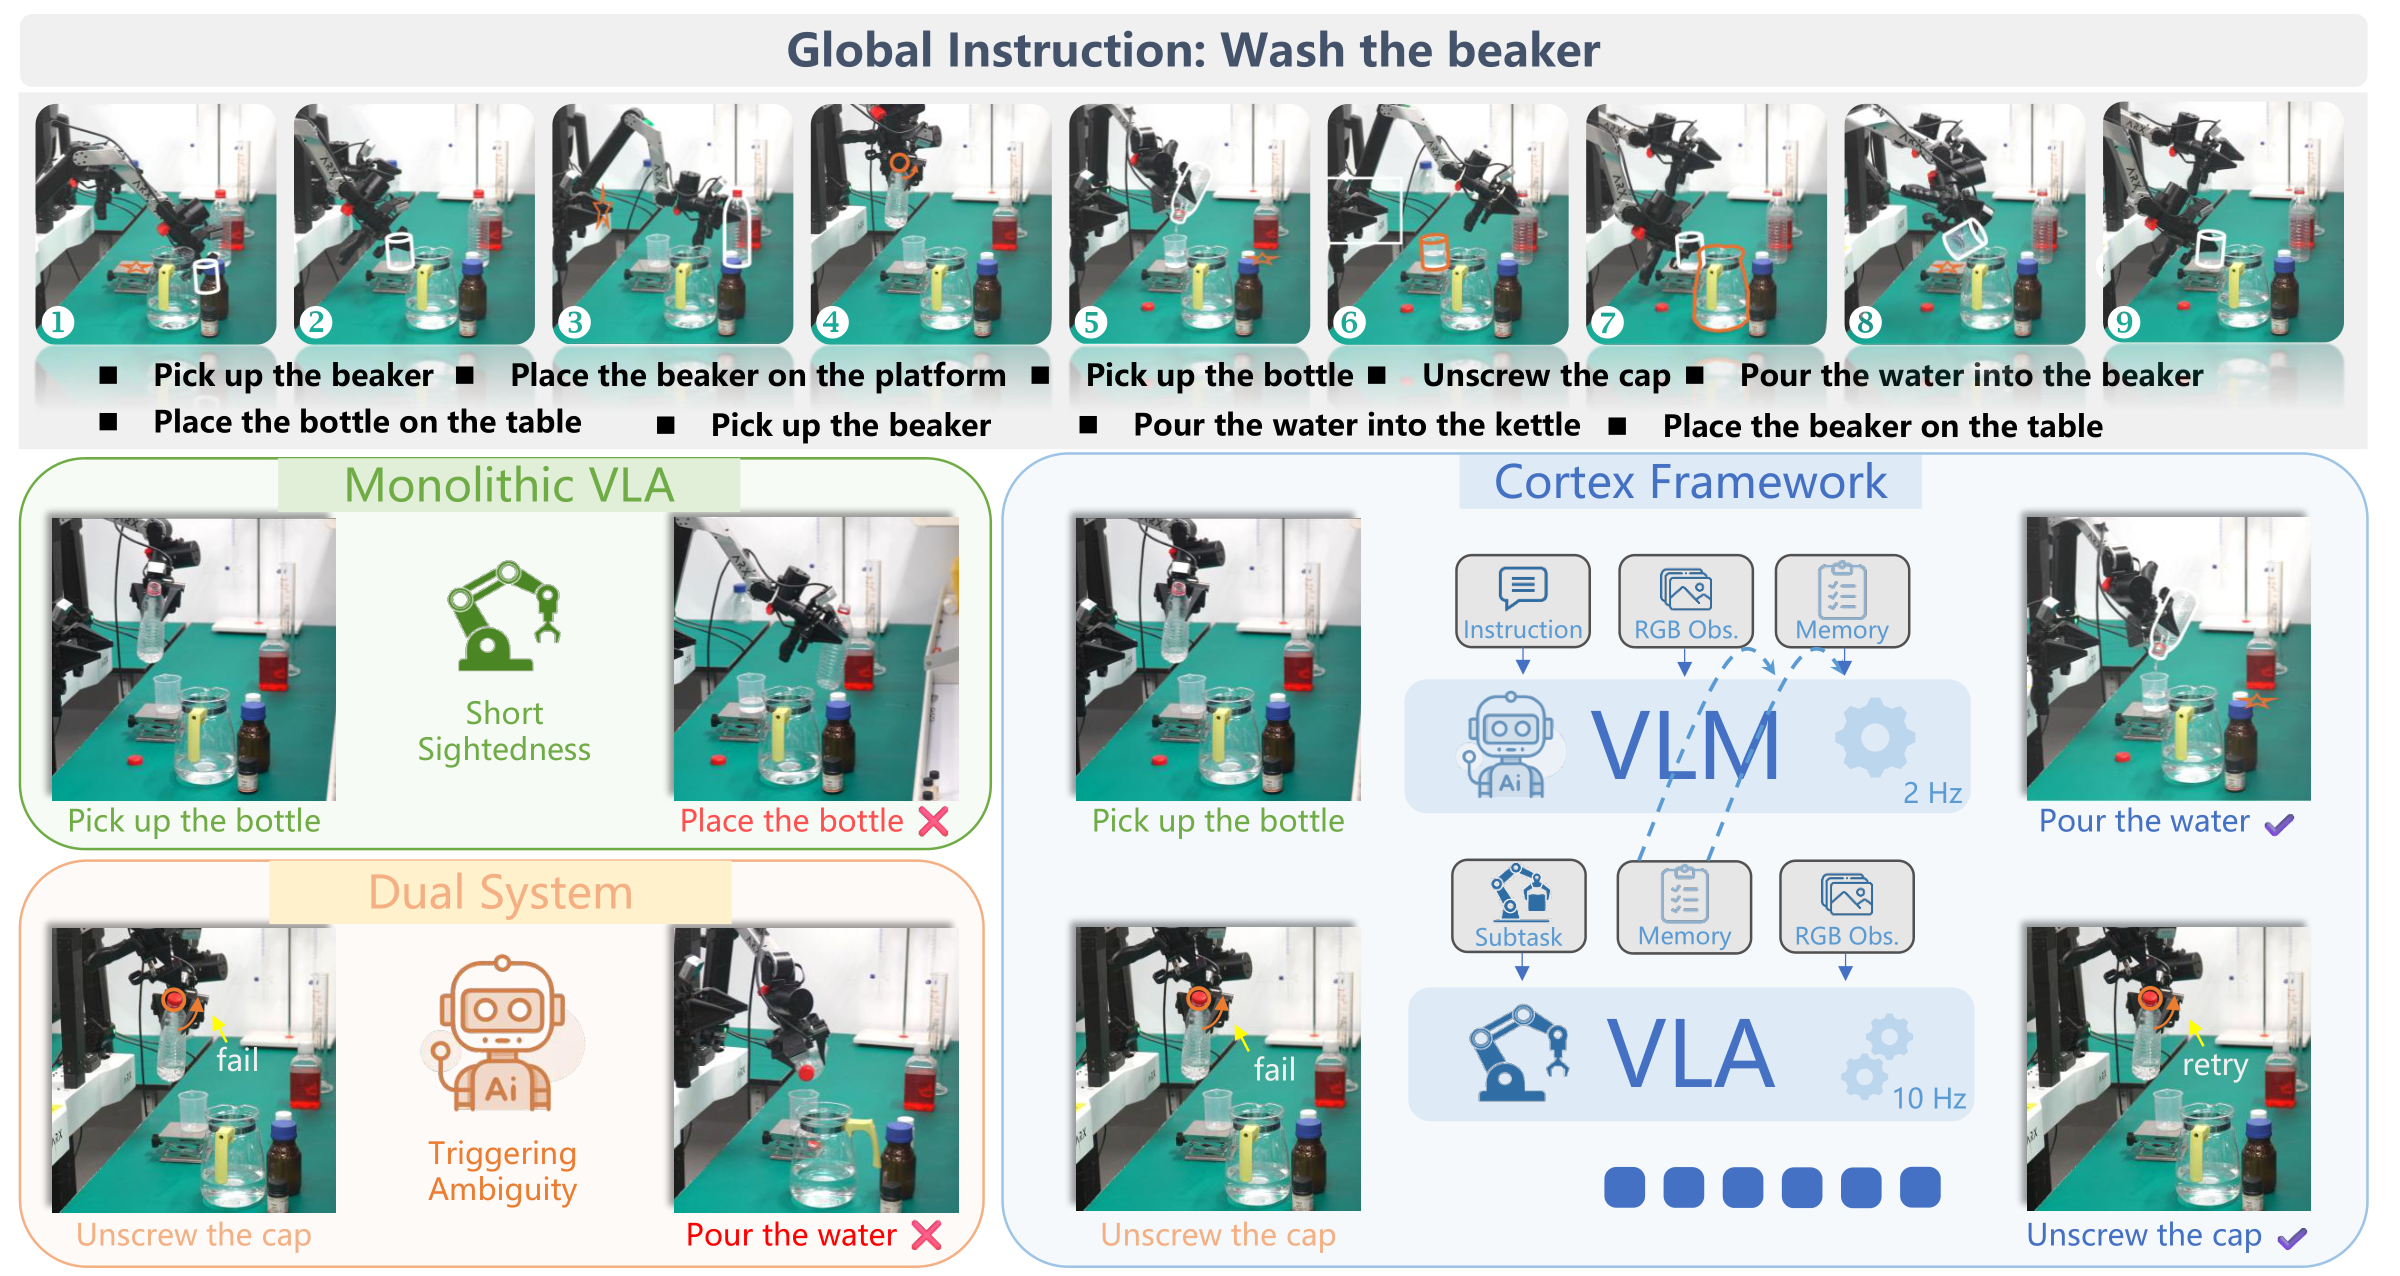
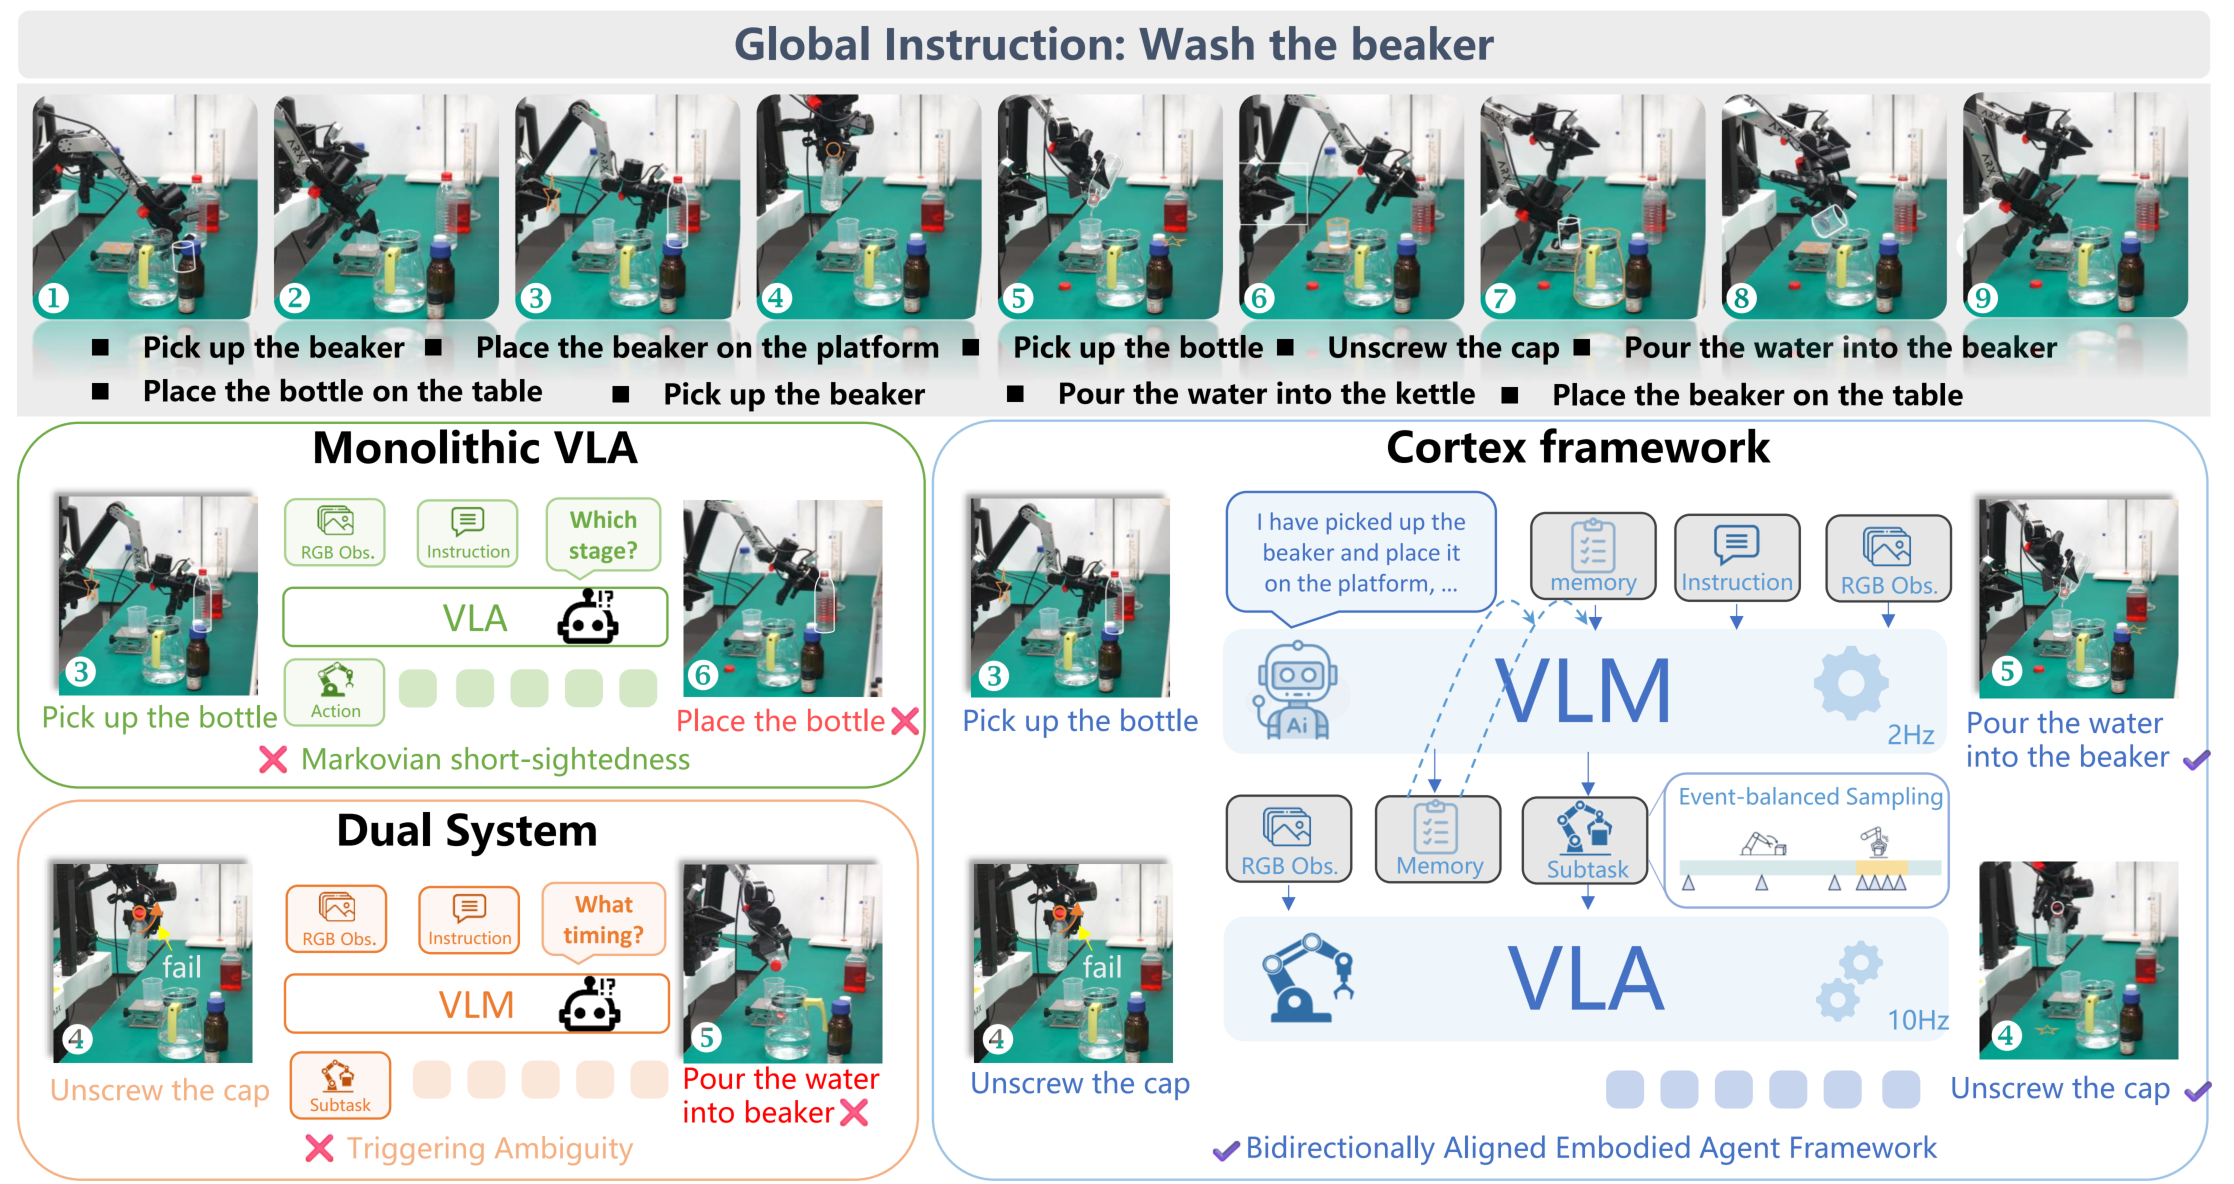
[feat] add reaworld video

diff --git a/static/css/style.css b/static/css/style.css
@@ -69,6 +69,7 @@ img,
 video {
   display: block;
   max-width: 100%;
+  height: auto;
 }
 
 a {
@@ -418,7 +419,7 @@ sup {
 
 .hero-teaser {
   max-width: 1120px;
-  margin: 0 auto 26px;
+  margin: 0 auto 24px;
   padding: clamp(8px, 1.3vw, 14px);
 }
 
@@ -440,6 +441,71 @@ figcaption {
 
 figcaption b {
   color: var(--ink-2);
+}
+
+.real-video-strip {
+  margin: 0 auto 28px;
+  text-align: left;
+}
+
+.strip-head {
+  max-width: 820px;
+  margin: 0 auto 18px;
+  text-align: center;
+}
+
+.strip-head .eyebrow {
+  margin-bottom: 10px;
+}
+
+.strip-head h2 {
+  max-width: 780px;
+  margin: 0 auto 12px;
+  font-size: clamp(1.55rem, 2.8vw, 2.25rem);
+  overflow-wrap: break-word;
+  text-wrap: balance;
+}
+
+.strip-head p {
+  max-width: 760px;
+  margin: 0 auto;
+  color: var(--ink-2);
+  font-size: 1rem;
+  line-height: 1.55;
+}
+
+.real-video-grid {
+  display: grid;
+  grid-template-columns: repeat(2, minmax(0, 1fr));
+  gap: 16px;
+}
+
+.real-video-card {
+  min-width: 0;
+  margin: 0;
+  padding: clamp(10px, 1.4vw, 14px);
+  border: 1px solid var(--line);
+  border-radius: var(--radius);
+  background: var(--card);
+  box-shadow: var(--shadow);
+}
+
+.real-video-card video {
+  width: 100%;
+  height: auto;
+  aspect-ratio: 16 / 9;
+  object-fit: contain;
+  border-radius: 6px;
+  background: #05080a;
+  box-shadow: 0 1px 2px rgba(15, 23, 42, .16);
+}
+
+.real-video-card figcaption {
+  max-width: 64ch;
+  margin-top: 10px;
+  font-size: .86rem;
+  line-height: 1.45;
+  overflow-wrap: break-word;
 }
 
 .stats {
@@ -1457,6 +1523,10 @@ html.js .reveal.is-visible {
     grid-template-columns: 1fr;
   }
 
+  .real-video-grid {
+    grid-template-columns: 1fr;
+  }
+
   .video-panel {
     display: block;
   }
@@ -1540,6 +1610,17 @@ html.js .reveal.is-visible {
   .hero-sub {
     max-width: 32ch;
     font-size: .98rem;
+  }
+
+  .strip-head {
+    max-width: 34rem;
+    text-align: center;
+  }
+
+  .strip-head h2,
+  .strip-head p {
+    margin-left: auto;
+    margin-right: auto;
   }
 
   .authors {
@@ -1741,6 +1822,36 @@ html.js .reveal.is-visible {
 
   .button-row {
     gap: 9px;
+  }
+
+  .real-video-strip {
+    margin-bottom: 22px;
+    overflow: hidden;
+  }
+
+  .strip-head {
+    max-width: 100%;
+  }
+
+  .strip-head h2 {
+    max-width: min(100%, 18rem);
+    font-size: clamp(1.48rem, 6vw, 1.7rem);
+    line-height: 1.18;
+  }
+
+  .strip-head p {
+    max-width: 31ch;
+    font-size: .94rem;
+  }
+
+  .real-video-card {
+    max-width: 100%;
+    padding: 9px;
+  }
+
+  .real-video-card figcaption {
+    max-width: 30ch;
+    font-size: .82rem;
   }
 
   .btn {

diff --git a/index.html b/index.html
@@ -37,8 +37,7 @@
         <span>Cortex</span>
       </a>
       <div class="nav-links">
-        <a href="#overview">Overview</a>
-        <a href="#video">Video</a>
+        <a href="#real-rollouts">Video</a>
         <a href="#method">Method</a>
         <a href="#data">Data</a>
         <a href="#results">Results</a>
@@ -94,7 +93,7 @@
       <p class="author-note reveal" style="--d:230ms"><sup>*</sup>Equal contribution &nbsp;&nbsp; <sup>&dagger;</sup>Corresponding author</p>
 
       <div class="button-row reveal" style="--d:270ms">
-        <a class="btn btn-primary" href="#video">
+        <a class="btn btn-primary" href="#real-rollouts">
           <i data-lucide="play-circle" aria-hidden="true"></i>
           Video
         </a>
@@ -123,6 +122,23 @@
           streaming verified subtasks and memory to the VLA executor.
         </figcaption>
       </figure>
+
+      <section class="real-video-strip reveal" id="real-rollouts" style="--d:360ms" aria-label="Real-world long-horizon demonstrations">
+        <div class="real-video-grid">
+          <figure class="real-video-card">
+            <video autoplay muted loop controls preload="metadata" playsinline width="2560" height="1440" poster="static/images/poster_beaker.jpg" src="static/videos/beaker.mp4"></video>
+            <figcaption>
+              <b>Beaker washing.</b> Cortex tracks bottle state, cap state, beaker placement, and water-transfer progress across a long manipulation chain.
+            </figcaption>
+          </figure>
+          <figure class="real-video-card">
+            <video autoplay muted loop controls preload="metadata" playsinline width="2560" height="1440" poster="static/images/poster_mof.jpg" src="static/videos/mof.mp4"></video>
+            <figcaption>
+              <b>MOF chemistry workflow.</b> The agent preserves task order and advances only after visual evidence supports each subtask transition.
+            </figcaption>
+          </figure>
+        </div>
+      </section>
 
       <div class="stats reveal" style="--d:390ms" aria-label="Key results">
         <article class="stat">
@@ -154,28 +170,6 @@
   </header>
 
   <main>
-    <section class="section" id="overview">
-      <div class="wrap wrap-narrow">
-        <div class="section-head reveal">
-          <p class="eyebrow">Overview</p>
-          <h2>Long-horizon manipulation needs explicit progress, not only reactive action.</h2>
-        </div>
-        <p class="lead reveal" style="--d:80ms">
-          Recent Vision-Language-Action models are strong short-horizon controllers, but they are often
-          Markovian: the current observation alone does not reliably encode which subtasks have already
-          been completed. In multi-stage manipulation, this leads to repeated actions, premature transitions,
-          and compounding errors.
-        </p>
-        <p class="lead reveal" style="--d:140ms">
-          Cortex introduces a bidirectionally aligned dual-system framework. A high-level VLM maintains
-          compact semantic memory and predicts the current executable subtask, while a low-level VLA
-          executes that localized command. The interface is standardized around canonical skills, spatial
-          and numerical grounding, event-balanced training, and a deployment harness that verifies progress
-          online.
-        </p>
-      </div>
-    </section>
-
     <section class="section" id="video">
       <div class="wrap">
         <div class="section-head video-head reveal">
@@ -189,7 +183,7 @@
 
         <div class="video-showcase reveal" style="--d:80ms">
           <figure class="video-frame">
-            <video controls preload="none" playsinline width="1440" height="533" poster="static/images/cortex-video-poster.jpg" src="static/videos/cortex-demo.mp4"></video>
+            <video autoplay muted loop controls preload="metadata" playsinline width="1440" height="533" poster="static/images/cortex-video-poster.jpg" src="static/videos/cortex-demo.mp4"></video>
             <figcaption>
               <b>Closed-loop long-horizon manipulation.</b> Cortex keeps task progress explicit, routes
               executable subtasks, and verifies transitions before moving forward.
@@ -319,19 +313,19 @@
 
           <div class="annotation-stage">
             <figure class="annotation-slide is-active" data-slide-title="Agibot long-horizon rollout">
-              <video controls preload="none" playsinline width="640" height="480" poster="static/images/poster_vis_agibot.jpg" src="static/videos/vis_agibot_task_327_episode_1.mp4"></video>
+              <video autoplay muted loop controls preload="metadata" playsinline width="640" height="480" poster="static/images/poster_vis_agibot.jpg" src="static/videos/vis_agibot_task_327_episode_1.mp4"></video>
               <figcaption>
                 <b>Agibot trajectory.</b> Subtask labels and colored progress bars reveal action boundaries in a 4:3 rollout.
               </figcaption>
             </figure>
             <figure class="annotation-slide" data-slide-title="Behavior square-view rollout">
-              <video controls preload="none" playsinline width="720" height="720" poster="static/images/poster_vis_behavior.jpg" src="static/videos/vis_behavior_task-0010_episode-100010.mp4"></video>
+              <video autoplay muted loop controls preload="metadata" playsinline width="720" height="720" poster="static/images/poster_vis_behavior.jpg" src="static/videos/vis_behavior_task-0010_episode-100010.mp4"></video>
               <figcaption>
                 <b>Behavior trajectory.</b> A square-view rollout demonstrates consistent subtask annotation under different video geometry.
               </figcaption>
             </figure>
             <figure class="annotation-slide" data-slide-title="Galaxea air-conditioner rollout">
-              <video controls preload="none" playsinline width="960" height="540" poster="static/images/poster_vis_galaxea.jpg" src="static/videos/vis_galaxea_adjust_air_conditioner_episode_1.mp4"></video>
+              <video autoplay muted loop controls preload="metadata" playsinline width="960" height="540" poster="static/images/poster_vis_galaxea.jpg" src="static/videos/vis_galaxea_adjust_air_conditioner_episode_1.mp4"></video>
               <figcaption>
                 <b>Galaxea trajectory.</b> Wide-format visualization shows subtask switching for a household interaction sequence.
               </figcaption>